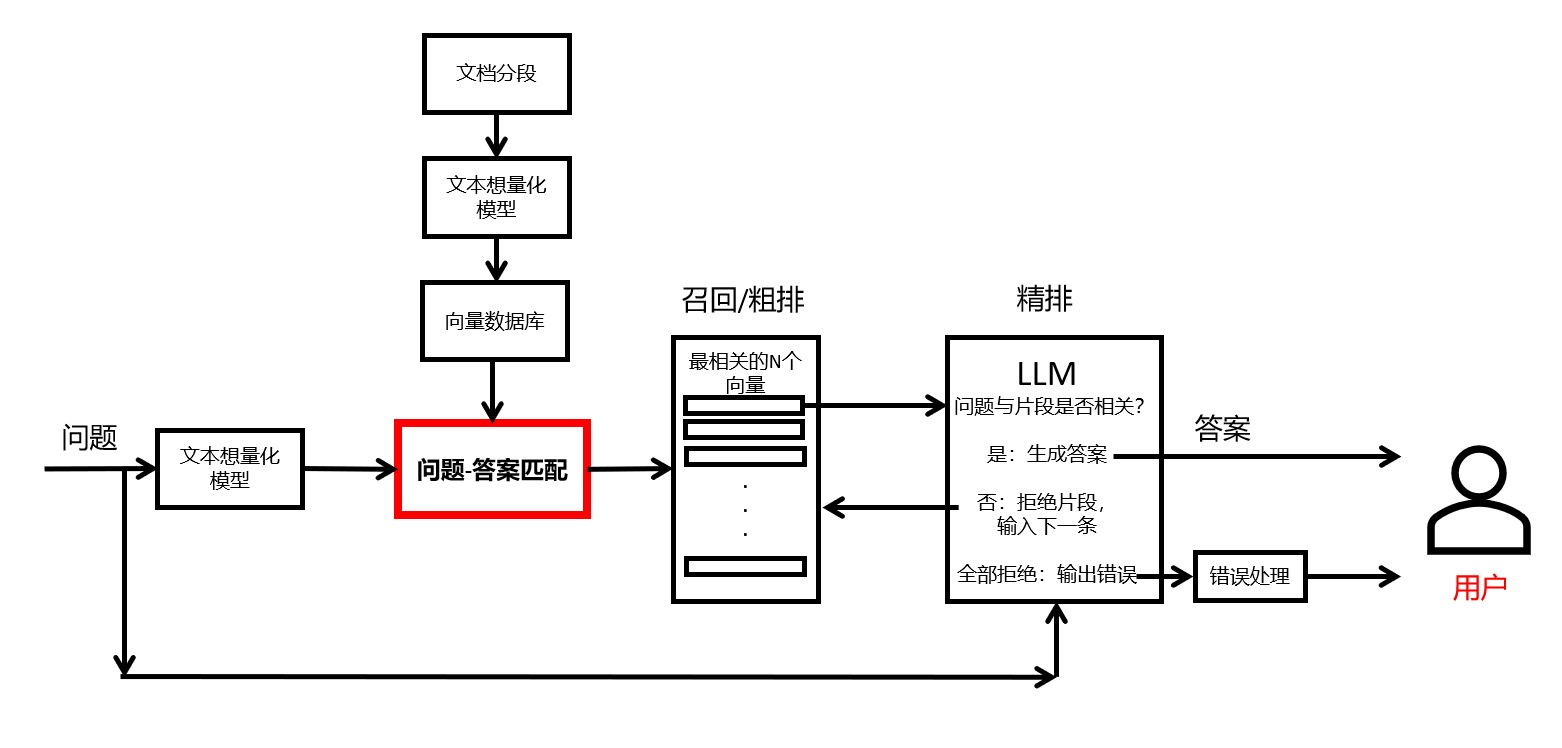
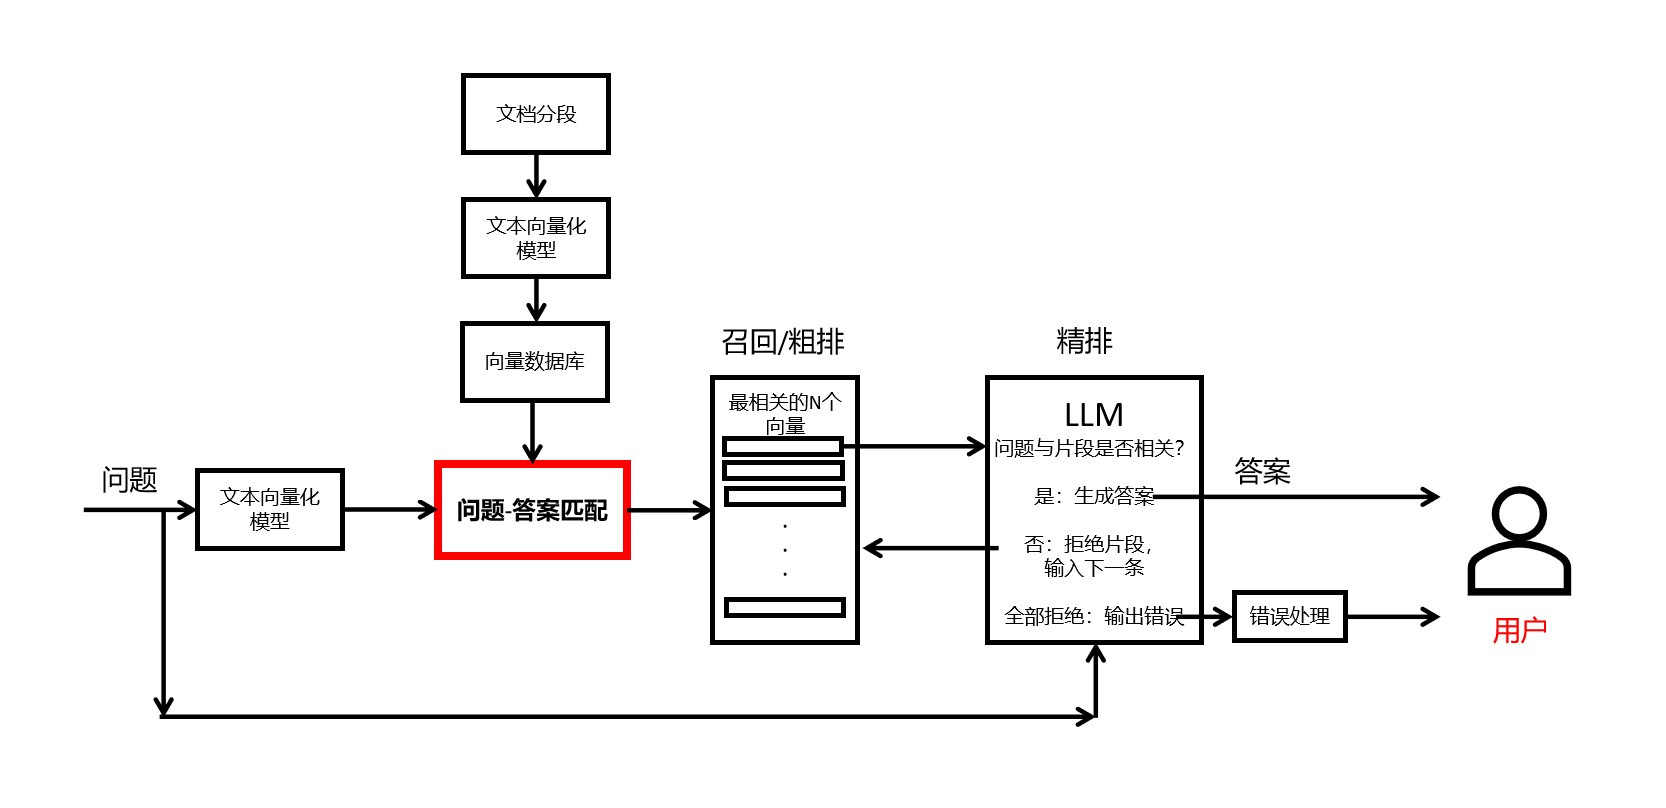
v0.1.1（day5morning）“quote”

Changed region(s): [[0.0307, 0.0307, 0.9834, 0.9225]]

diff --git a/code/llm_agent.py b/code/llm_agent.py
@@ -14,7 +14,7 @@ def askprompt(question,feed_content):
     return message
 
 def rejectprompt(question,feed_content):
-    message=f"根据三重反引号分隔的文本中的内容，判断是否可以正确地回答三重中括号分隔的文本中的问题，用一个字回答，只能回答是或否\n```{feed_content}```\n[[[{question}]]]"
+    message=f"根据三重反引号分隔的文本中的内容，判断是否可以正确地回答三重中括号分隔的文本中的问题，不能涉及文本之外的知识，用一个字回答，只能回答是或否\n```{feed_content}```\n[[[{question}]]]"
     return message
 
 #########################################
@@ -26,15 +26,16 @@ def rejectprompt(question,feed_content):
 
 
 
-def generate_feedcontent(question,vectordb,splits,index):
-    comp_res = vectordb.similarity_search_with_score(question,k=variables.NEAREST_K)
-
+def generate_feedcontent(comp_res,splits,index):
     feed_content=""
-    p_index=comp_res[index][0].metadata["p_index"]
+    metadata=comp_res[index][0].metadata
+    p_index=metadata["p_index"]
+    sourcefile=metadata["source"].split("/")[-1]
+    page=metadata["page"]
     for i in range(max(0,p_index-variables.HALF_SEARCH_RANGE),min(len(splits),p_index+variables.HALF_SEARCH_RANGE+1)):
         feed_content+=splits[i].page_content
     #print(feed_content)
-    return feed_content
+    return feed_content,sourcefile,page
 
 def config_poe():
     set_auth('Quora-Formkey',variables.QUORA_FORMKEY)
@@ -59,19 +60,22 @@ def llm_agent_start(split_filename,bot):
         
         flag_reply=False
         for i in range(variables.NEAREST_K):
-            feed_content=generate_feedcontent(question,vectordb,splits,i)
+            comp_res = vectordb.similarity_search_with_score(question,k=variables.NEAREST_K)
+            feed_content,sourcefile,pageno=generate_feedcontent(comp_res,splits,i)
             message=rejectprompt(question,feed_content)
-            print(message)
+            if variables.DEBUG:
+                print(message)
             send_message(message,bot,chat_id)
             reply = get_latest_message(bot)
-            print("\n\n\n"+reply+"\n\n\n")
+            if variables.DEBUG:
+                print("\n\n\n"+reply+"\n\n\n")
             if reply=="否":
                 continue
             elif reply=="是":
                 message=askprompt(question,feed_content)
                 send_message(message,bot,chat_id)
                 reply = get_latest_message(bot)
-                print(f"{bot} : {reply}")
+                print(f"{bot} : {reply}\n\t出处：{sourcefile}\t第{pageno}页附近")
                 flag_reply=True
                 break
             else:

diff --git a/code/utils.py b/code/utils.py
@@ -25,7 +25,7 @@ def find_file_type(path,type):
 
 def use_existing_data():
     useornot=input("Use existing data？（Y/N） : ")
-    if useornot=="Y" or useornot=="y":
+    if useornot=="Y" or useornot=="y" or useornot=="":
         return True
     if useornot=="N" or useornot=="n":
         return False

diff --git a/code/variables.py b/code/variables.py
@@ -13,6 +13,9 @@ SPLITRCTS_SEPARATORS=["\n\n", "\n", "(?<=\. )","(?<=。)", " ", ""]
 NEAREST_K=5
 HALF_SEARCH_RANGE=3
 
+#debug
+DEBUG=False
+
 #poe
 QUORA_FORMKEY='xxx'
 QUORA_COOKIES='m-b=xxx'

diff --git a/README.md b/README.md
@@ -75,3 +75,9 @@ llm_agent里编辑prompt
 新结构给embedding部分一定的容错空间，提升准确率。在实验中起到了一定的成效。
 
 其余小变动：新增了统一的异常报错函数；词向量上下文范围和召回数量可以在variables里边编辑；新增无法回答时的标准输出。
+
+## 版本0.1.1 （day5morning）
+
+主要更新：新增了引用功能，在给出回答的同时给出参考的源文件和页码。因为扩大搜索范围的影响，目前页码可能有最大2页左右的误差。该功能可辅助用户去查阅源文件获取更详细的信息，同时作为后续访问控制功能的基础。
+
+其余小变动：变量新增了DEBUG参数，可以选择是否开启调试输出；优化算法，避免了先前版本多次相似度匹配导致的高时间复杂度问题；修正了上一版本原理图中的错别字问题。
